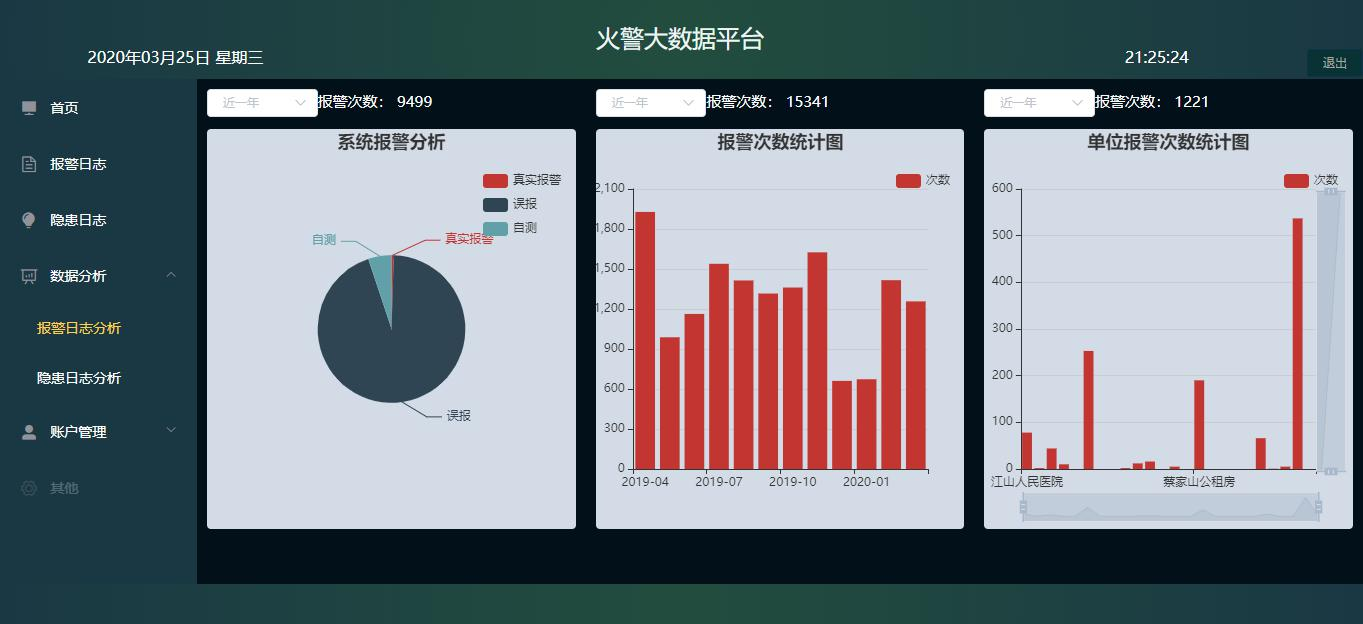
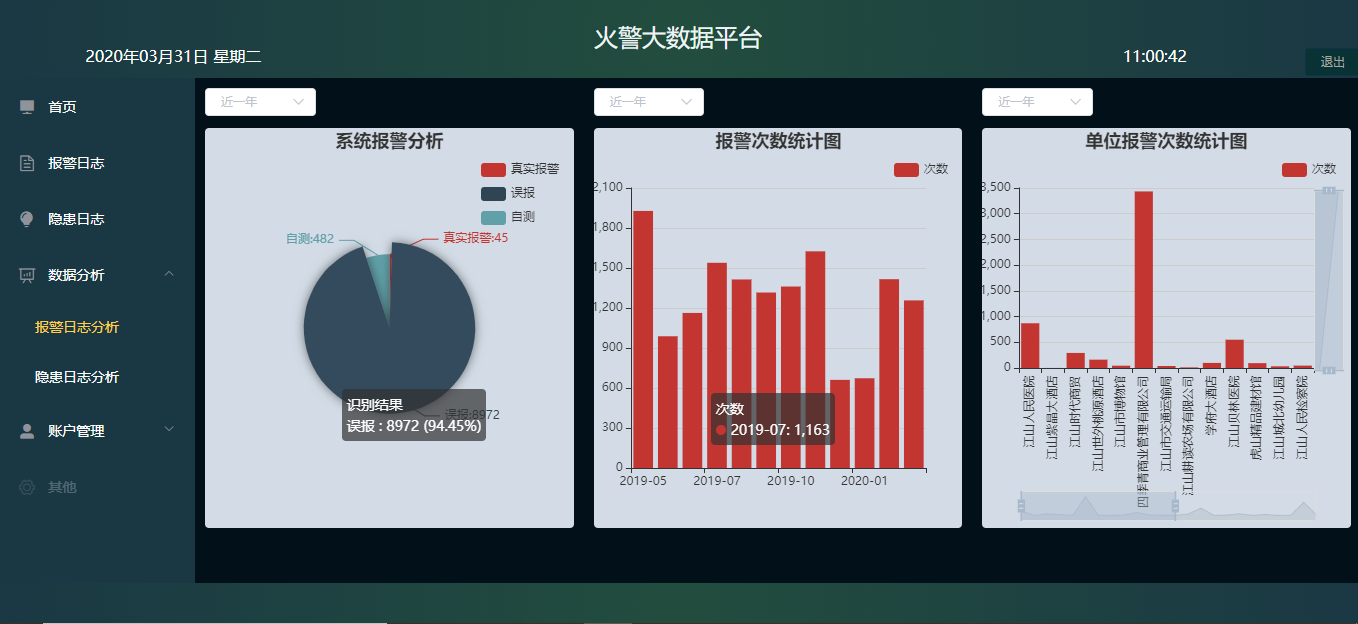
完善日志组件

diff --git a/src/components/navigation/dataAnalysis/AnaHazard.vue b/src/components/navigation/dataAnalysis/AnaHazard.vue
@@ -198,6 +198,10 @@ export default {
                 text: '报警次数统计图',
                 left: 'center'
               },
+              grid: {
+                containLabel: false,
+                left: '15%'
+              },
               tooltip: {},
               legend: {
                 data: ['次数'],
@@ -253,7 +257,8 @@ export default {
               },
               grid: {
                 containLabel: false,
-                bottom: '40%'
+                bottom: '40%',
+                left: '15%'
               },
               tooltip: {},
               legend: {

diff --git a/src/components/navigation/Hazard.vue b/src/components/navigation/Hazard.vue
@@ -36,7 +36,8 @@
       <el-pagination
         layout="prev, pager, next"
         :total="total"
-        :pageSize="pageSize"
+        :current-page="this.pageIndex"
+        :page-size="pageSize"
         @current-change="HandleCurrentPage"
         style="padding-left: 0"
       ></el-pagination>
